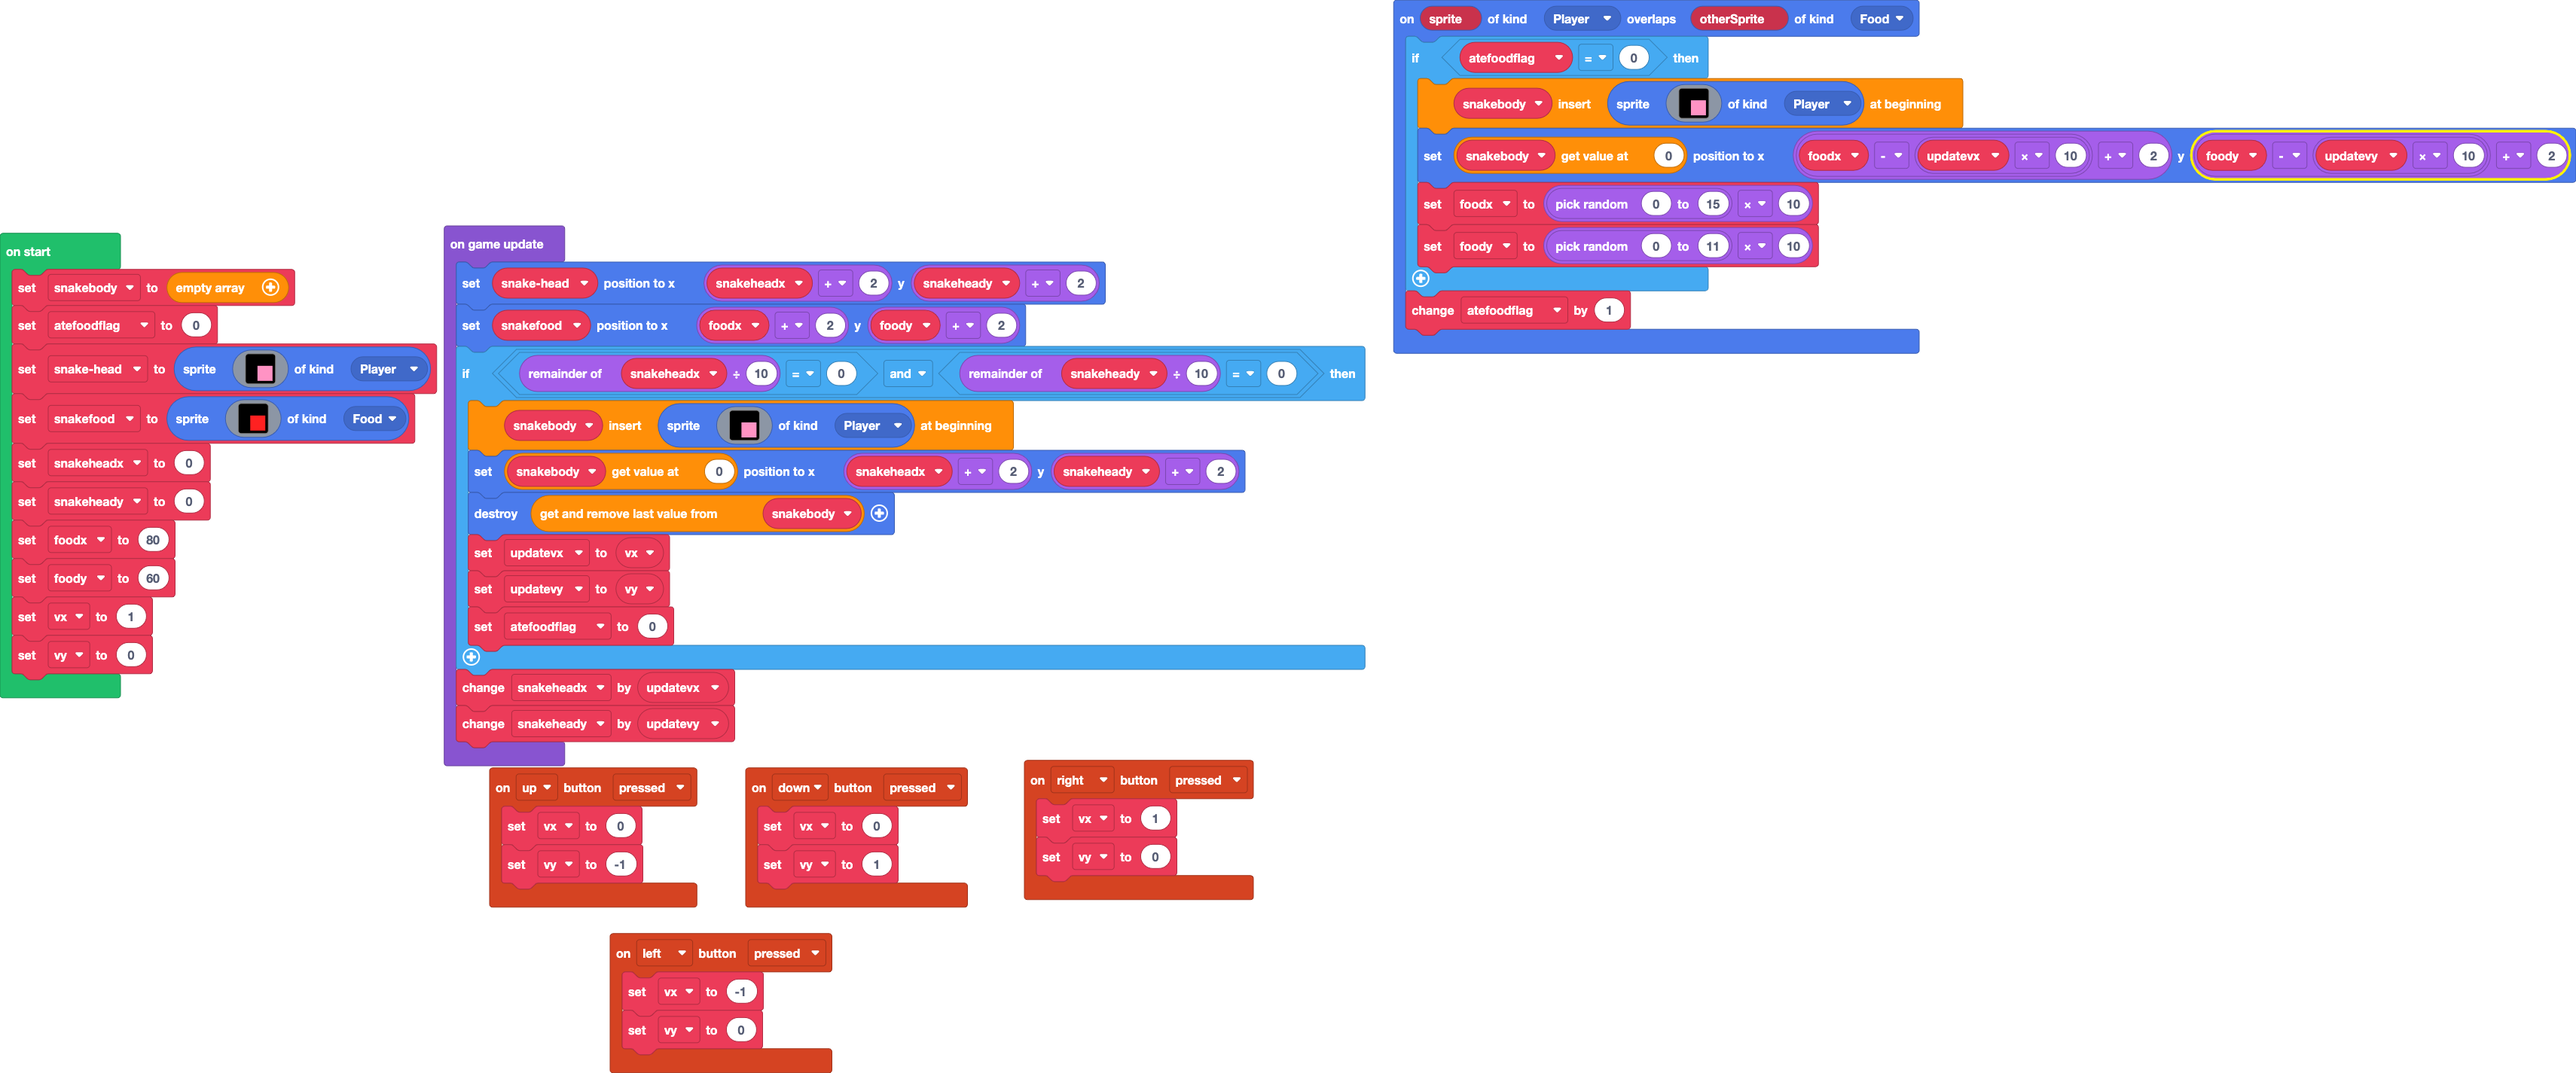
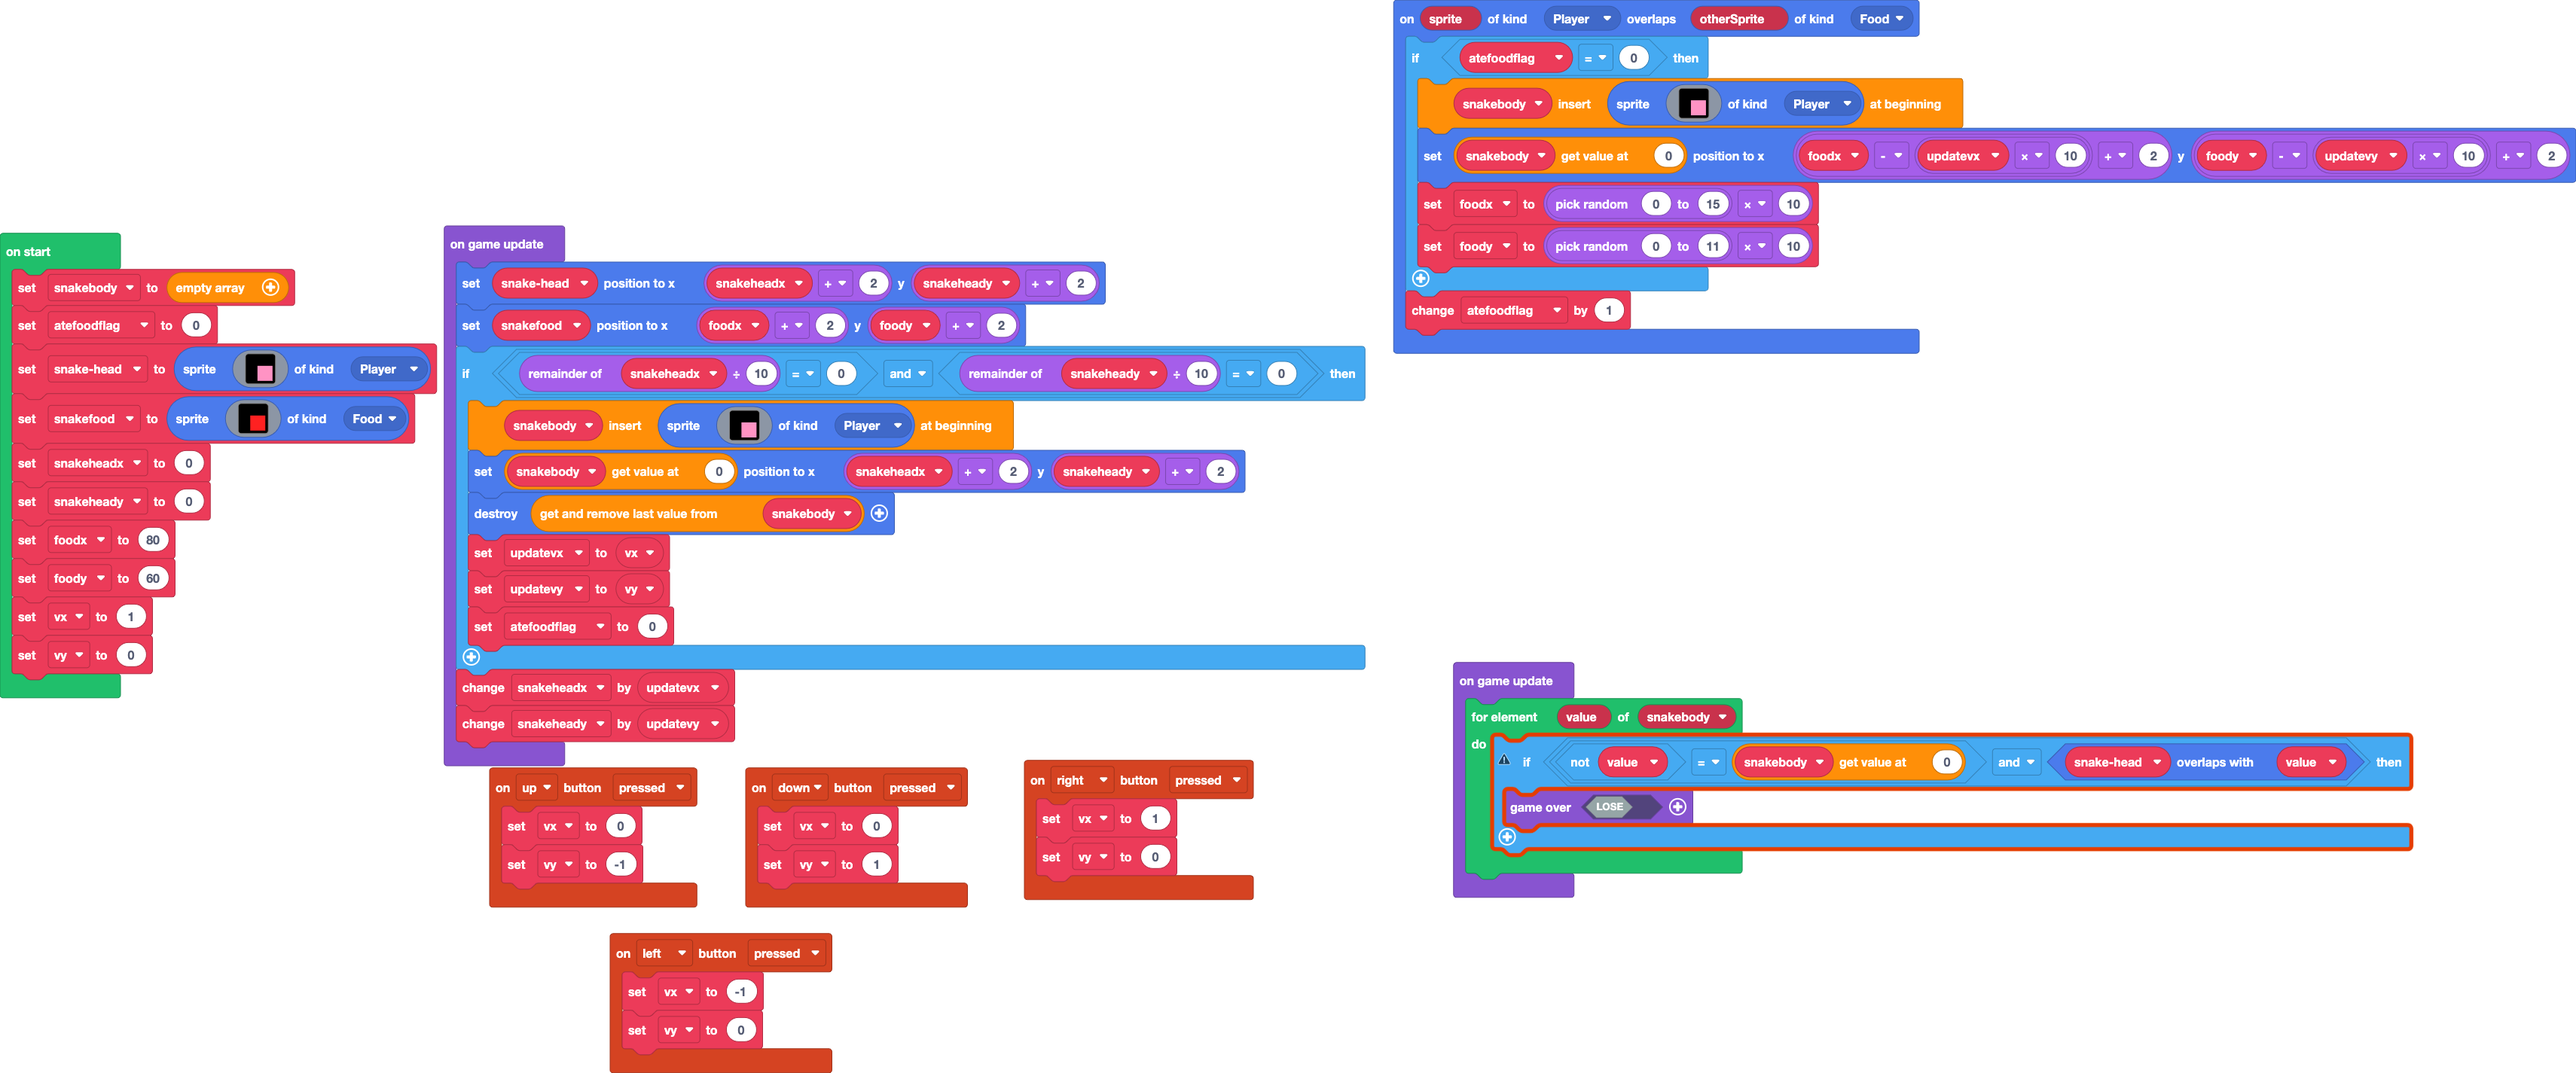
not able to eat second food

Changed region(s): [[0.5579, 0.6175, 0.9608, 0.8337], [0.9918, 0.1235, 1.0, 0.1544]]

diff --git a/main.ts b/main.ts
@@ -123,3 +123,10 @@ game.onUpdate(function () {
     snakeheadx += updatevx
     snakeheady += updatevy
 })
+game.onUpdate(function () {
+    for (let value of snakebody) {
+        if (!(value) == snakebody[0] && snakehead.overlapsWith(value)) {
+            game.over(false)
+        }
+    }
+})
